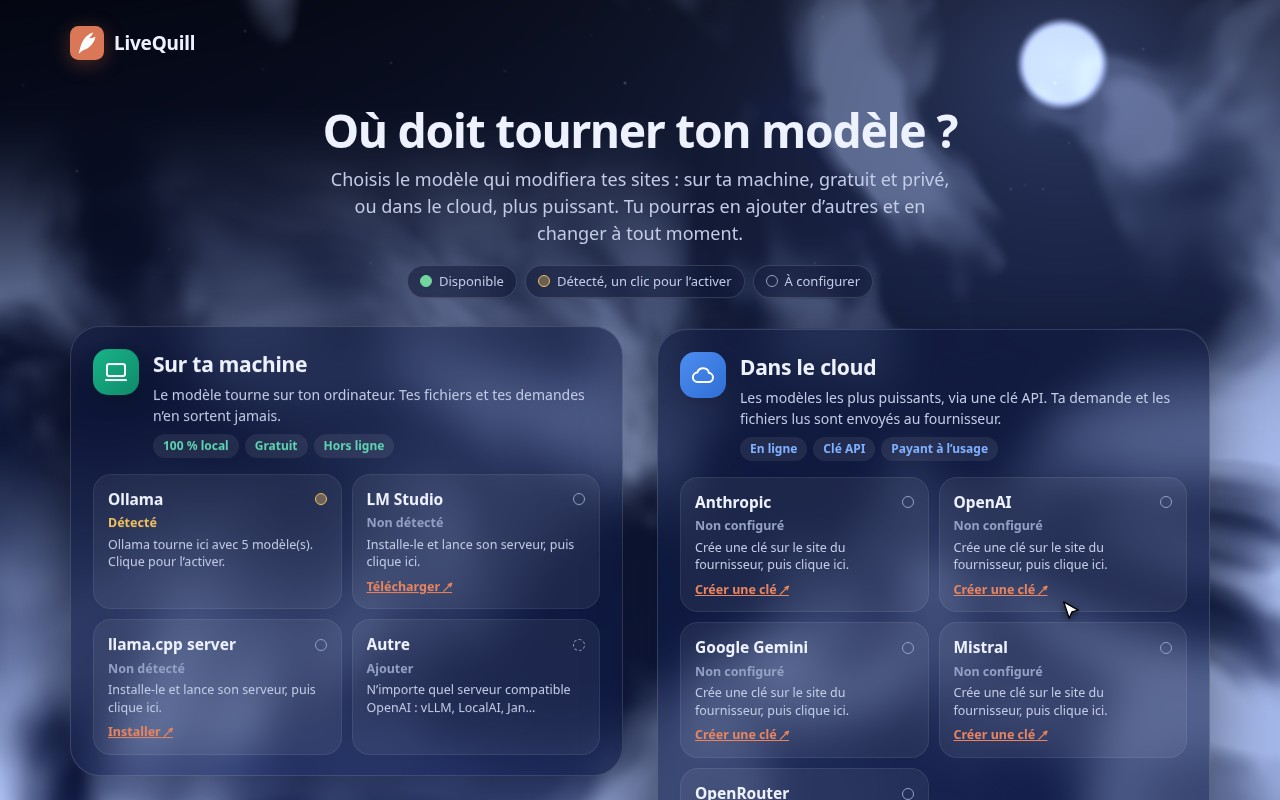
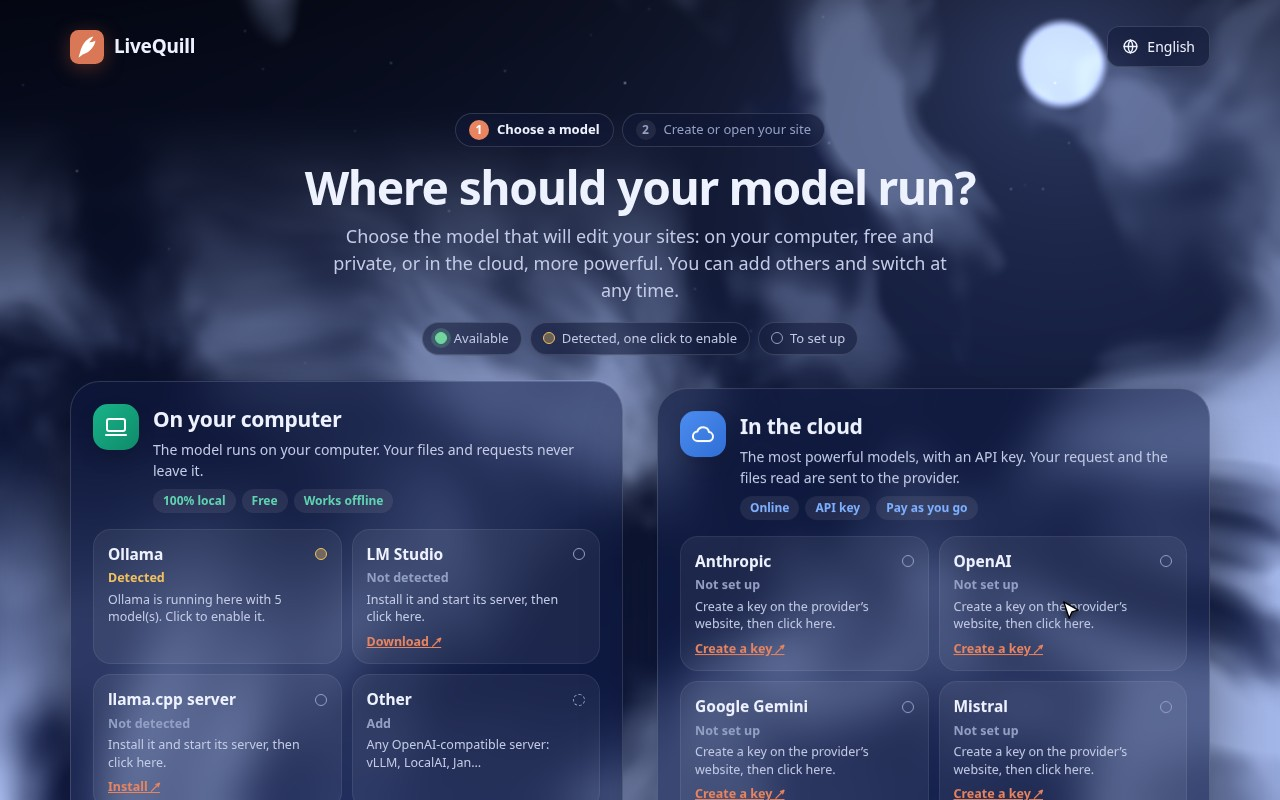
docs: new-site wizard, settings, languages and templates; English screenshots

diff --git a/site/index.html b/site/index.html
@@ -43,7 +43,6 @@
   .sub{max-width:620px;margin:0 auto 40px;color:var(--soft);text-align:center}
   .grid{display:grid;grid-template-columns:repeat(3,1fr);gap:16px}
   .grid.two{grid-template-columns:1fr 1fr;max-width:820px;margin:0 auto}
-  .grid.one{grid-template-columns:1fr;max-width:460px;margin:0 auto}
   .f{padding:22px;border:1px solid var(--line);border-radius:16px;background:var(--card)}
   .f .i{display:grid;place-items:center;width:38px;height:38px;border-radius:10px;background:color-mix(in srgb,var(--acc) 16%,transparent);color:var(--acc);margin-bottom:12px}
   .f .i svg{width:20px;height:20px}
@@ -105,7 +104,7 @@
       <div class="f"><div class="i"><svg viewBox="0 0 24 24" fill="none" stroke="currentColor" stroke-width="2" stroke-linecap="round"><path d="M4 20h16M6 16l9-9 3 3-9 9H6z"/></svg></div><h3>Real file edits</h3><p>The model searches, reads and edits the project with sandboxed tools, then the page reloads on its own.</p></div>
       <div class="f"><div class="i"><svg viewBox="0 0 24 24" fill="none" stroke="currentColor" stroke-width="2" stroke-linecap="round"><path d="M9 14 4 9l5-5M4 9h10.5a5.5 5.5 0 0 1 0 11H11"/></svg></div><h3>Undo and versions</h3><p>Every file is backed up before it is touched. Undo the last request, or preview any earlier version live and go back to it in one click.</p></div>
       <div class="f"><div class="i"><svg viewBox="0 0 24 24" fill="none" stroke="currentColor" stroke-width="2" stroke-linecap="round"><path d="M4 6h16M4 12h16M4 18h10"/></svg></div><h3>Live answers</h3><p>The panel streams what the model says, the tools it calls and the files it changes.</p></div>
-      <div class="f"><div class="i"><svg viewBox="0 0 24 24" fill="none" stroke="currentColor" stroke-width="2" stroke-linecap="round"><rect x="3" y="4" width="18" height="14" rx="2"/><path d="M8 21h8"/></svg></div><h3>All your sites</h3><p>A dashboard lists your projects. Serve a folder as-is, or sit in front of Vite, Next or Astro.</p></div>
+      <div class="f"><div class="i"><svg viewBox="0 0 24 24" fill="none" stroke="currentColor" stroke-width="2" stroke-linecap="round"><rect x="3" y="4" width="18" height="14" rx="2"/><path d="M8 21h8"/></svg></div><h3>All your sites</h3><p>Create a site from a template in a short wizard, or add a folder you have. Served as-is, or in front of Vite, Next or Astro.</p></div>
       <div class="f"><div class="i"><svg viewBox="0 0 24 24" fill="none" stroke="currentColor" stroke-width="2" stroke-linecap="round"><circle cx="12" cy="12" r="9"/><path d="M12 3a14 14 0 0 1 0 18M3 12h18"/></svg></div><h3>Any model</h3><p>Switch between cloud APIs, local models and CLI agents from the same menu, without restarting.</p></div>
       <div class="f"><div class="i"><svg viewBox="0 0 24 24" fill="none" stroke="currentColor" stroke-width="2" stroke-linecap="round"><path d="M12 22a10 10 0 1 1 10-10c0 2.8-2.2 4-4 4h-1.7a1.8 1.8 0 0 0-1.3 3.1A1.6 1.6 0 0 1 12 22z"/></svg></div><h3>Looks like home</h3><p>Claude, ChatGPT, Gemini and Minimal themes, in light and dark, following your system.</p></div>
     </div>
@@ -113,7 +112,7 @@
 
   <section><div class="wrap">
     <div class="shots">
-      <figure><img src="assets/images/hub.jpg" alt="Sites dashboard" loading="lazy"><figcaption><b>Your sites.</b> Add a project folder once, open it with the bar whenever you need it.</figcaption></figure>
+      <figure><img src="assets/images/hub.jpg" alt="Sites dashboard" loading="lazy"><figcaption><b>Your sites.</b> Create a site from a template or add a folder you have, then open it with the bar whenever you need it.</figcaption></figure>
       <figure><img src="assets/images/setup.jpg" alt="Provider setup page" loading="lazy"><figcaption><b>Setup in a minute.</b> Detected providers are one click away, and each connection is checked live.</figcaption></figure>
       <figure><img src="assets/images/models.png" alt="Model menu grouped by provider" loading="lazy"><figcaption><b>Every model in one menu.</b> Reasoning and Fast only show up when the model supports them.</figcaption></figure>
       <figure><img src="assets/images/themes.png" alt="Bar themes" loading="lazy"><figcaption><b>Four themes.</b> Pick the one that feels like the assistant you already use.</figcaption></figure>
@@ -133,8 +132,9 @@
   <section id="roadmap"><div class="wrap">
     <h2>Coming next</h2>
     <p class="sub">Here is what is planned next. Follow the repository to see it land.</p>
-    <div class="grid one">
+    <div class="grid two">
       <div class="f"><div class="i"><svg viewBox="0 0 24 24" fill="none" stroke="currentColor" stroke-width="2" stroke-linecap="round"><ellipse cx="12" cy="6" rx="7" ry="3"/><path d="M5 6v6c0 1.7 3.1 3 7 3s7-1.3 7-3V6M5 12v6c0 1.7 3.1 3 7 3s7-1.3 7-3v-6"/></svg></div><h3>Dynamic sites, mock database</h3><p>Sites with a backend, plugged into a disposable database seeded with demo data, so the model edits data-driven pages without touching real data.</p></div>
+      <div class="f"><div class="i"><svg viewBox="0 0 24 24" fill="none" stroke="currentColor" stroke-width="2" stroke-linecap="round"><circle cx="12" cy="12" r="9"/><path d="M3 12h18M12 3a14 14 0 0 1 0 18M12 3a14 14 0 0 0 0 18"/></svg></div><h3>More templates and languages</h3><p>More starting points in the new-site wizard, and more interface languages, picked from the language menu.</p></div>
     </div>
   </div></section>
 
@@ -145,7 +145,7 @@
       <ol class="steps">
         <li><b>Install and run.</b> The first launch opens the setup page in your browser.</li>
         <li><b>Pick a provider.</b> Paste an API key, or use Ollama or a CLI agent detected on your machine.</li>
-        <li><b>Add a site.</b> Choose a project folder, or the URL of your dev server.</li>
+        <li><b>Create a site.</b> Start from a template or a blank page in a short wizard, or add a folder you already have.</li>
         <li><b>Open it and ask.</b> “Make the hero title red.” Watch it change, undo if you don’t like it.</li>
       </ol>
       <pre id="code"><button class="copy" type="button">Copy</button><span class="c"># install (Linux, macOS)</span>

diff --git a/README.md b/README.md
@@ -24,7 +24,8 @@ A floating prompt bar for any local site: type a change, the model of your choic
 
 - **Ask, don't dig.** Describe the change on the page you are looking at. The model finds the code, edits it, and the page reloads.
 - **Any model.** Claude, GPT, Gemini, Mistral, OpenRouter, local models through Ollama, LM Studio or llama.cpp, any OpenAI-compatible server, or the Claude Code, Codex and Gemini CLIs you already use. No CLI? The agent built into the **Claude Desktop** or **ChatGPT** app works too.
-- **All your sites in one place.** A dashboard lists your projects. Each one is served as-is or behind your dev server (Vite, Next, Astro…).
+- **A new site in a minute.** A short wizard creates a site from a ready-made template or a blank page, no technical skills needed. Or add a folder you already have.
+- **All your sites in one place.** A dashboard lists your projects with a live thumbnail. Each one is served as-is or behind your dev server (Vite, Next, Astro…).
 - **Safe by default.** Sandboxed file tools, a backup before every edit, one-click **Undo**, and API keys that never reach the browser.
 - **Every request is a version.** Browse them in the bar, preview any of them live without touching your files, and go back to it in one click.
 - **Nothing to install in your project.** The bar is added while pages are served, never written to disk. **Zero dependencies**: just Python.
@@ -53,8 +54,8 @@ The script installs a single file, `livequill.pyz` from the [latest release](htt
 
 Press <kbd>Ctrl</kbd>+<kbd>C</kbd> in the terminal to stop it.
 
-1. **Setup.** The first launch opens the setup page. Pick a provider: paste an API key, or click a local model or CLI agent detected on your machine.
-2. **Add a site.** You land on **Mes sites** (the interface is in French for now). Add a project folder, or the URL of your running dev server.
+1. **Setup.** The first launch opens the setup page. Pick a provider: paste an API key, or click a local model or CLI agent detected on your machine. You only see this page once: later, providers are managed from the ⚙ settings of **My sites**.
+2. **Create a site.** You land on **My sites**. Click **New site**: pick a starting point (a business website template or a blank page), give it a name, and LiveQuill creates it in `~/LiveQuill/sites`. Already have a site? Choose **Add an existing site** and select its folder.
 3. **Open it and ask.** The site opens with the floating bar. Try *“make the hero title red”*, watch it change, then click **Undo**.
 
 Handy shortcuts:
@@ -81,20 +82,26 @@ livequill --proxy http://localhost:5173 ~/projects/app   # same, behind your dev
 
 <table>
 <tr>
-<td width="50%"><img src="docs/images/hub.jpg" alt="Mes sites dashboard"></td>
+<td width="50%"><img src="docs/images/hub.jpg" alt="My sites dashboard"></td>
 <td width="50%"><img src="docs/images/setup.jpg" alt="Provider setup page"></td>
 </tr>
 <tr>
-<td><b>Mes sites.</b> Add, edit, open or stop each project. Every site runs on its own port, with its own history.</td>
+<td><b>My sites.</b> Create, add, open or stop each project, with a live thumbnail. Every site runs on its own port, with its own history.</td>
 <td><b>Setup.</b> Each provider shows <b>Available</b> (connection checked live), <b>Detected</b> (one click away), or a link to get a key.</td>
 </tr>
 <tr>
+<td><img src="docs/images/wizard.jpg" alt="New site wizard"></td>
 <td><img src="docs/images/hero.jpg" alt="Floating bar with the live answer"></td>
-<td><img src="docs/images/themes.png" alt="Claude, ChatGPT, Gemini and Minimal themes"></td>
 </tr>
 <tr>
+<td><b>New site.</b> A short wizard: kind of site, starting point with a live preview, name and folder. Built for people who never made a website.</td>
 <td><b>Live panel.</b> The answer streams in, with the tools called and the files changed. It survives the reload.</td>
-<td><b>Themes.</b> Claude, ChatGPT, Gemini and Minimal, in light and dark, following your system.</td>
+</tr>
+<tr>
+<td colspan="2"><img src="docs/images/themes.png" alt="Claude, ChatGPT, Gemini and Minimal themes"></td>
+</tr>
+<tr>
+<td colspan="2"><b>Themes.</b> Claude, ChatGPT, Gemini and Minimal, in light and dark, following your system.</td>
 </tr>
 </table>
 
@@ -129,7 +136,7 @@ livequill --proxy http://localhost:5173 ~/projects/app   # same, behind your dev
 
 ### Desktop apps, no CLI needed
 
-The **Claude Desktop** app ships with its own copy of Claude Code, and the **ChatGPT** app (and the Codex app on macOS) ships with Codex. If the CLI is not installed, LiveQuill uses the agent built into the app, with the account you are already signed in with. The setup page shows it as *“Trouvé dans l’app Claude Desktop”*, the connection test checks that you are signed in, and the newest version is picked every time the app updates itself.
+The **Claude Desktop** app ships with its own copy of Claude Code, and the **ChatGPT** app (and the Codex app on macOS) ships with Codex. If the CLI is not installed, LiveQuill uses the agent built into the app, with the account you are already signed in with. The setup page shows it as *“Found in the Claude Desktop app”*, the connection test checks that you are signed in, and the newest version is picked every time the app updates itself.
 
 | App | Where LiveQuill looks |
 |---|---|
@@ -218,7 +225,8 @@ Register it in `KINDS` (`livequill/adapters/__init__.py`), and the setup page an
 
 ### Planned
 
-- **Dynamic sites with a mock database.** Support for sites with a backend and a database, plugged into a disposable mock database seeded with demo data, so the model can work on data-driven pages without ever touching real data.
+- **Dynamic sites with a mock database.** Support for sites with a backend and a database, plugged into a disposable mock database seeded with demo data, so the model can work on data-driven pages without ever touching real data. The new-site wizard already shows the option, greyed out until it lands.
+- **More templates and languages.** More starting points in the new-site wizard (portfolio, event, restaurant…), and more interface languages through the language menu.
 
 ### Ideas
 
@@ -247,7 +255,7 @@ Yes. Keep your dev server running and add the site with its URL (or run `livequi
 
 ### What if the model breaks something?
 
-Click **Undo** in the bar. The files changed by the last request are restored from the backup taken just before the edit, and you can undo several requests in a row. To go further back, open **Versions** (the clock button), preview the version you want, and click **Revenir à cette version**.
+Click **Undo** in the bar. The files changed by the last request are restored from the backup taken just before the edit, and you can undo several requests in a row. To go further back, open **Versions** (the clock button), preview the version you want, and click **Go back to this version**.
 
 ### Where is my data stored, and how do I uninstall?
 
@@ -263,7 +271,7 @@ A 7B model or larger that supports tool calls, such as `qwen2.5:7b-instruct`, `q
 
 ## Contributing
 
-Contributions are welcome: adapters, themes, roadmap items, fixes and translations (the interface is currently in French). Start with [CONTRIBUTING.md](CONTRIBUTING.md). Every pull request runs the full CI (tests on Linux and macOS for Python 3.10 to 3.14, lint, secret scan, CodeQL) and is reviewed by the maintainer before merging.
+Contributions are welcome: adapters, themes, roadmap items, fixes and translations (the interface is in English; a new language is one JSON file, see CONTRIBUTING). Start with [CONTRIBUTING.md](CONTRIBUTING.md). Every pull request runs the full CI (tests on Linux and macOS for Python 3.10 to 3.14, lint, secret scan, CodeQL) and is reviewed by the maintainer before merging.
 
 ```bash
 python3 -m unittest discover -s tests     # about 8 s, no network

diff --git a/CONTRIBUTING.md b/CONTRIBUTING.md
@@ -15,7 +15,7 @@ Thanks for taking the time to contribute! Bug reports, new provider adapters, th
 git clone https://github.com/Ybucaille/livequill.git
 cd livequill
 python3 -m unittest discover -s tests
-node tests/e2e/browser.mjs        # parcours navigateur réel (Chrome/Chromium requis)
+node tests/e2e/browser.mjs        # real browser run (needs Chrome or Chromium)
 ./bin/livequill          # dashboard; add any local project as a site
 ```
 
@@ -40,6 +40,20 @@ Releases are automated: bump `version` in `pyproject.toml` and `livequill/__init
 ### A new theme
 
 Add an entry to `THEMES` in `livequill/static/overlay.js`. Each entry has a `shape` (font, radius, sizes) and a `dark` and a `light` color set. It shows up in the palette menu automatically.
+
+### A new language
+
+The interface is written in English, and every visible text goes through `t()` (pages) or `tr()` (the bar). To add a language, create `livequill/static/i18n/<code>.json`, for example `fr.json`. It maps each English text to its translation, plus a `_name` key with the language's own name:
+
+```json
+{ "_name": "Français", "My sites": "Mes sites", "New site": "Nouveau site", "{n} file(s)": "{n} fichier(s)" }
+```
+
+Keep the `{placeholders}` as they are. Missing texts fall back to English. The language then appears in the language menu of the setup page and of **My sites**.
+
+### A new site template
+
+Add a folder to `livequill/templates/` with an `index.html` and its files, then register it in `TEMPLATES` (`livequill/scaffold.py`) with a name and a one-line description. `{{SITE_NAME}}` and `{{YEAR}}` are replaced when a site is created. Keep templates dependency-free (no build step, no CDN), so a beginner can open the folder and understand it.
 
 ## Pull requests
 
